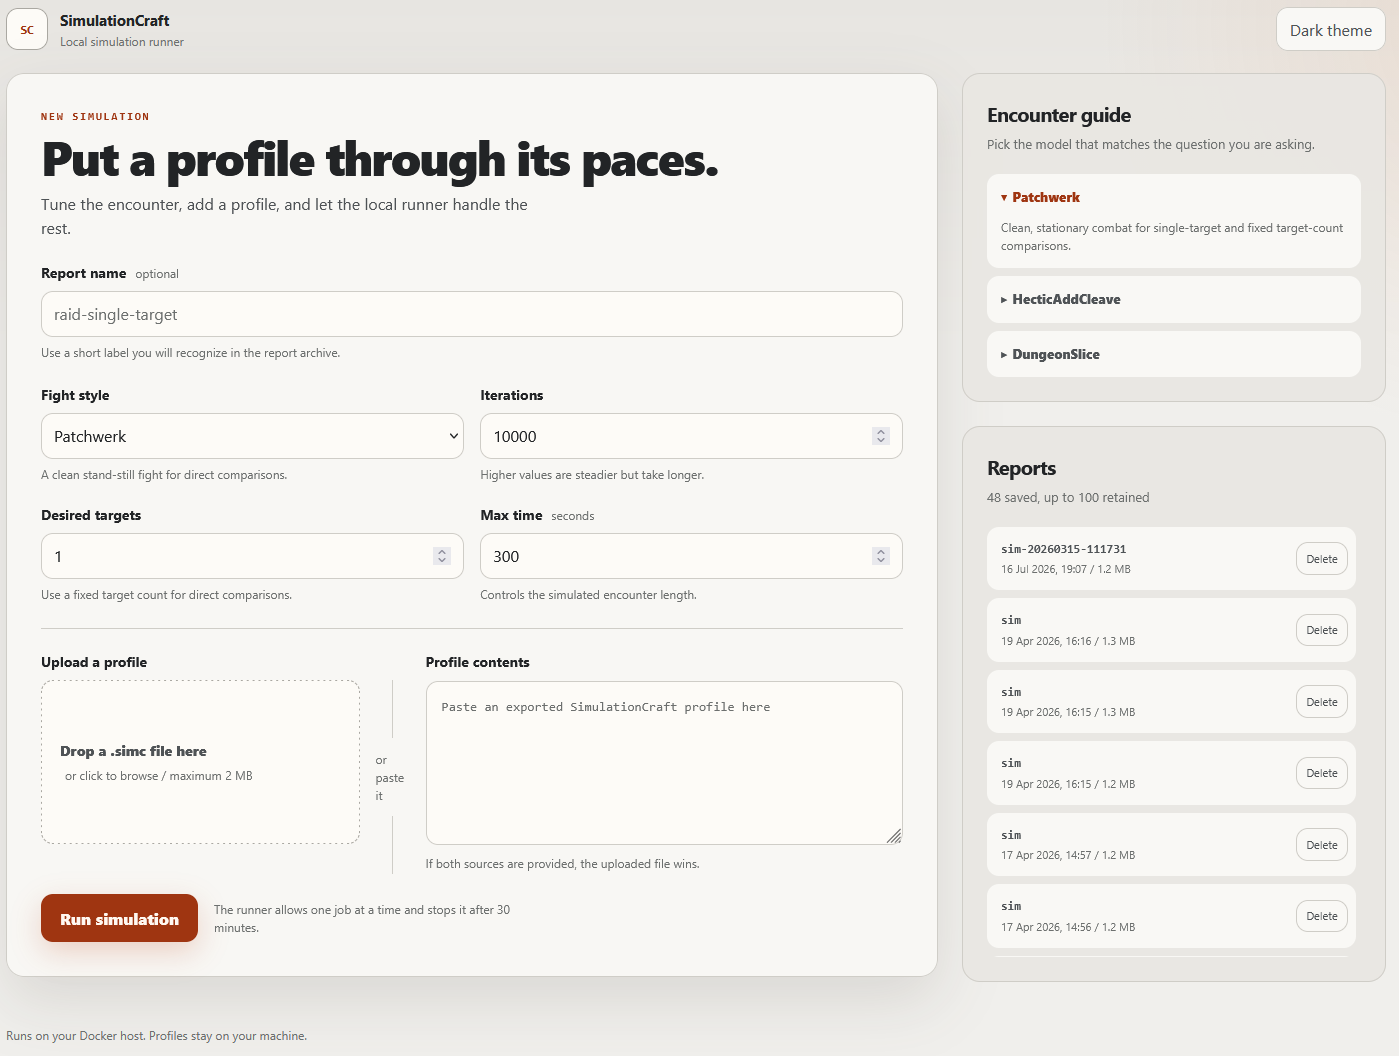
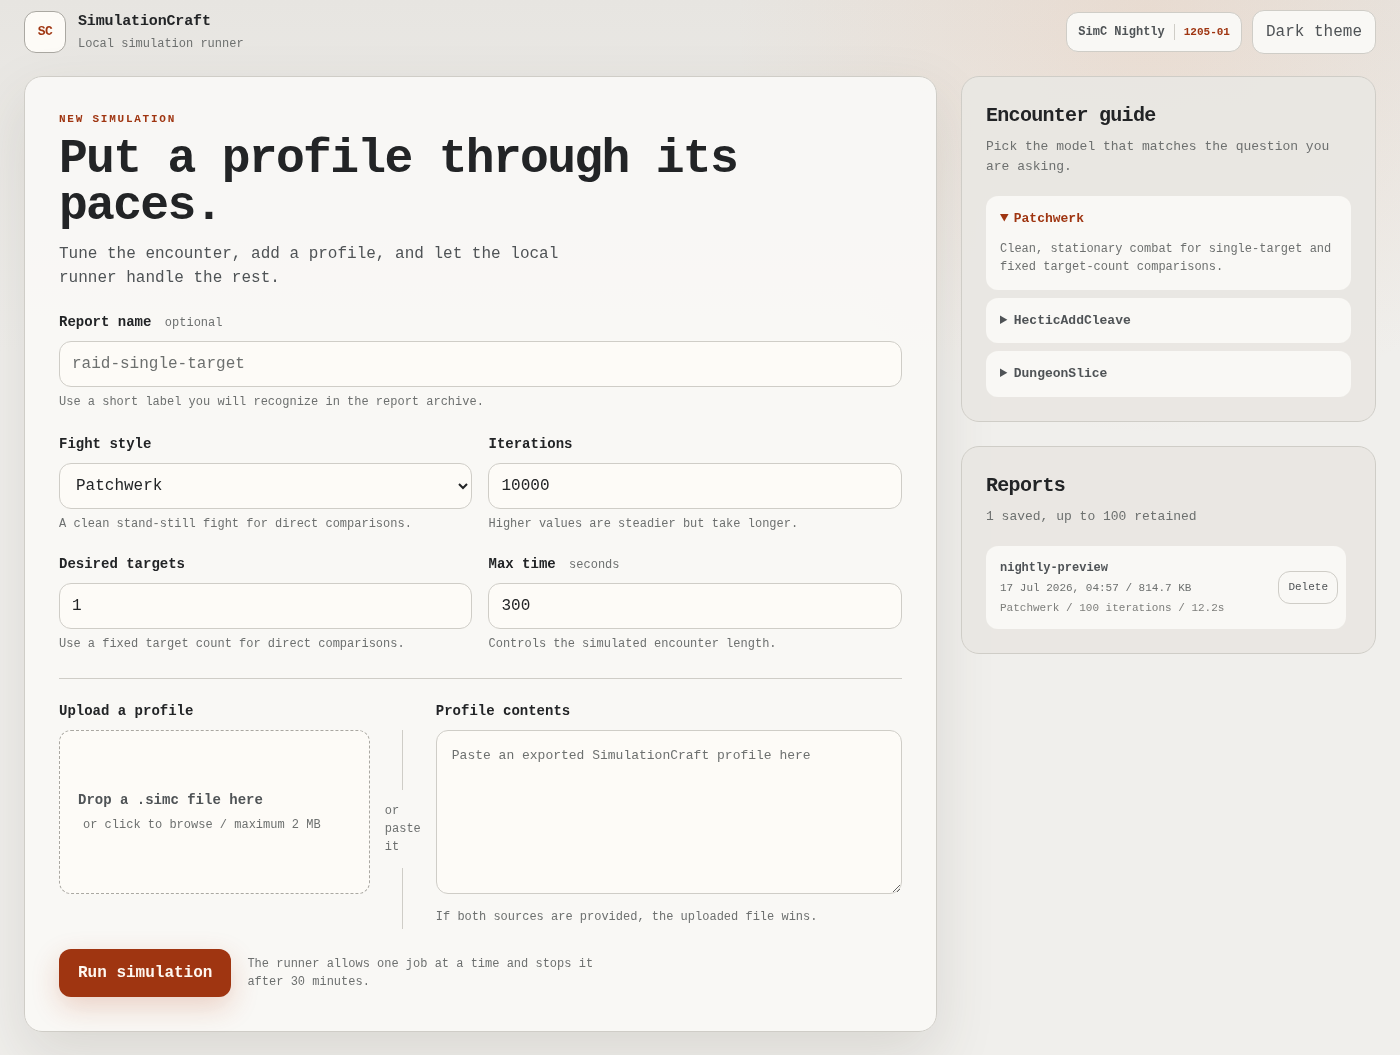
Handle current SimulationCraft nightly metadata

diff --git a/tests/test_app.py b/tests/test_app.py
@@ -99,11 +99,20 @@ class SimcWebTests(unittest.TestCase):
         self.assertEqual(build["hotfix_build"], "68453")
         self.assertEqual(build["git_commit"], "30e0b5f")
 
+    def test_extract_simc_build_from_labeled_console_output(self):
+        build = simc_app.extract_simc_build(
+            "SimulationCraft 1205-01 for World of Warcraft 12.0.7.68453 "
+            "Live (hotfix 2026-07-13/68453, git build midnight 79cea9e)"
+        )
+
+        self.assertEqual(build["git_commit"], "79cea9e")
+
     def test_index_shows_latest_report_build_in_engine_badge(self):
         simc_app.ensure_data_dirs()
         report = simc_app.OUTPUT_DIR / "raid-test.html"
         report.write_text(
-            """
+            "x" * (600 * 1024)
+            + """
             <p>
               <a>SimulationCraft 1205-01</a> for World of Warcraft
               12.0.7.68453 Live (hotfix 2026-07-13/68453,

diff --git a/app/app.py b/app/app.py
@@ -272,7 +272,7 @@ def detect_simc_version(output: str) -> str:
     return match.group(1).strip() if match else ""
 
 
-def report_text(path: Path, max_bytes: int = 512 * 1024) -> str:
+def report_text(path: Path, max_bytes: int = 1024 * 1024) -> str:
     """Read enough of a generated report to cover its build header."""
     try:
         with path.open("rb") as report_file:
@@ -328,7 +328,8 @@ def extract_simc_build(*sources: str) -> dict[str, str]:
             build.setdefault("hotfix_build", hotfix_match.group("build"))
 
         commit_match = re.search(
-            r"\bgit build\s+(?P<commit>[0-9a-f]{7,40})\b",
+            r"\bgit build(?:\s+[A-Za-z][A-Za-z0-9._-]*)?\s+"
+            r"(?P<commit>[0-9a-f]{7,40})\b",
             visible,
             re.IGNORECASE,
         )